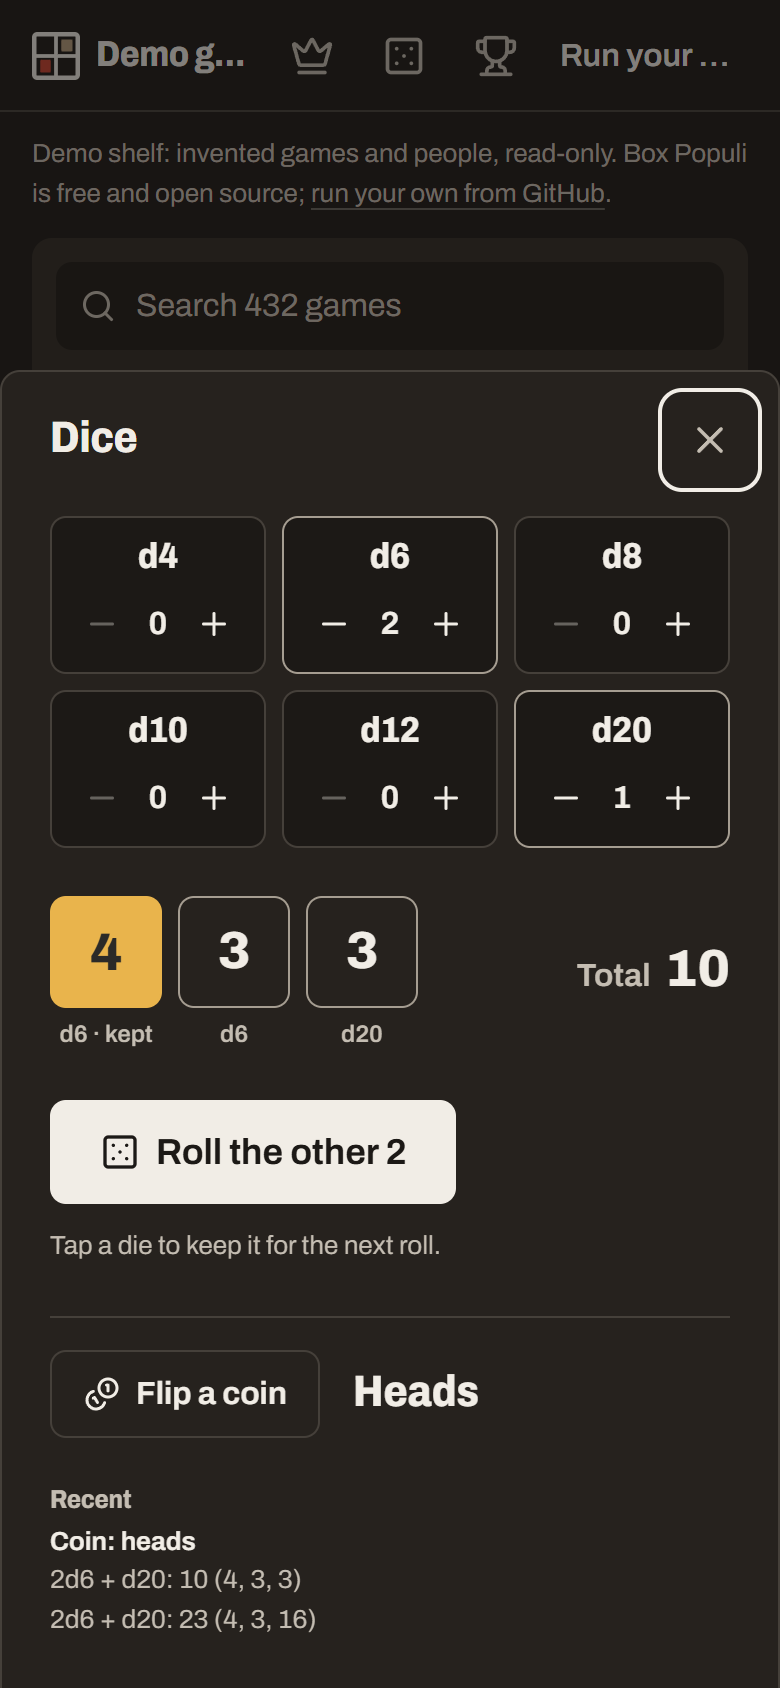
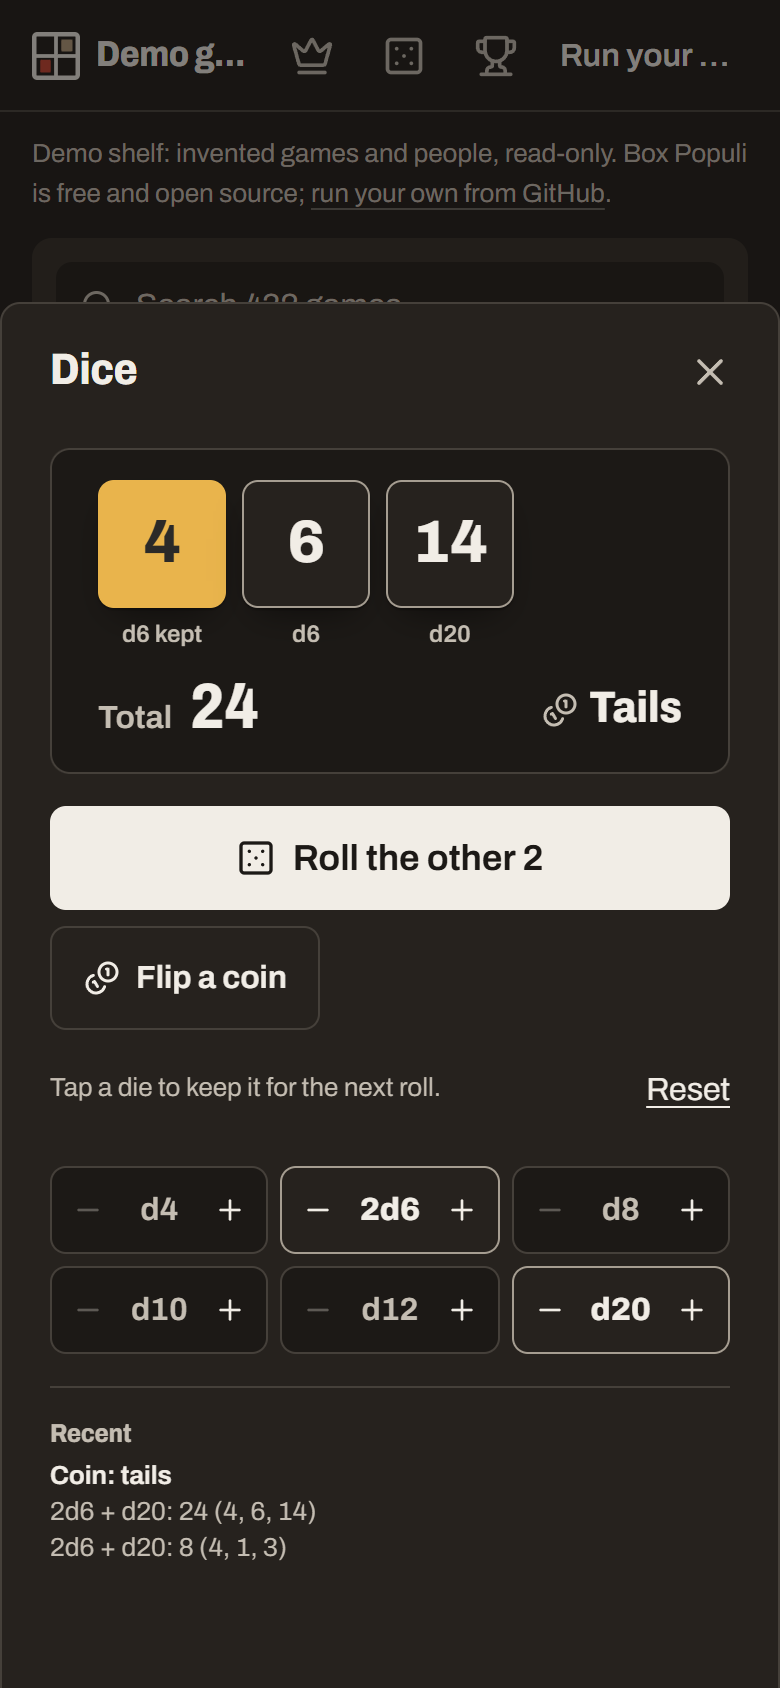
STATUS: 0.3.0 deployed, migrations 0008-0011 applied; README screenshots retaken

diff --git a/STATUS.md b/STATUS.md
@@ -1,8 +1,8 @@
 # Status
 
-Last updated 2026-11-08. Every weekend item and the Monday list are built, and 363 tests pass. Two instances run on Cloudflare Pages: the public demo at `box-populi.pages.dev` (`INSTANCE_MODE=demo`) and Carlo's private instance for his own groups, whose address stays out of this public repo. **Migrations 0001 to 0007 are applied to production (0006 and 0007 on 2026-11-07), so they're frozen: schema changes go in new migration files.**
+Last updated 2026-11-08. Every weekend item and the Monday list are built, and 374 tests pass. Two instances run on Cloudflare Pages: the public demo at `box-populi.pages.dev` (`INSTANCE_MODE=demo`) and Carlo's private instance for his own groups, whose address stays out of this public repo. Both run v0.3.0. **Migrations 0001 to 0011 are applied to production (0008 to 0011 on 2026-11-08), so they're frozen: schema changes go in new migration files.**
 
-**Next up:** deploy 0.3.0 to both instances when Carlo asks: back up both databases, apply migrations 0008 to 0011, check each instance's `GROUP_CREATION` (it now defaults to `admins`), then cut and tag the version (D44). Then: Carlo uses his instance with Wikidata until BGG approves the application. When BGG replies, answer that Box Populi is open source and self-hosted with one application per instance (TECH.md "Many instances, one piece of software"). Then the BGG token goes in (try it locally first, see TECH.md "Public-sources mode" and the unverified BGG assumptions below). With the token, consider BGG's ranks file as a local search index (TECH.md "Planned: BGG's ranks file as a local search index"; confirm the open points in its step 1 first) and the unbuilt 30-day refresh. Game nights are built (D38). Remaining stretch items: passkeys, CSV export of the catalog, PWA. The live BGG client is written and tested against a fake server, but has never talked to BGG.
+**Next up:** Carlo uses his instance with Wikidata until BGG approves the application. When BGG replies, answer that Box Populi is open source and self-hosted with one application per instance (TECH.md "Many instances, one piece of software"). Then the BGG token goes in (try it locally first, see TECH.md "Public-sources mode" and the unverified BGG assumptions below). With the token, consider BGG's ranks file as a local search index (TECH.md "Planned: BGG's ranks file as a local search index"; confirm the open points in its step 1 first) and the unbuilt 30-day refresh. Game nights are built (D38). Remaining stretch items: passkeys, CSV export of the catalog, PWA. The live BGG client is written and tested against a fake server, but has never talked to BGG.
 
 Agents: tick items as they're done, add a line to the session log at the bottom, and move assumptions to "Verified" with a date and source when you confirm them.
 
@@ -17,8 +17,8 @@ Not secret. Secrets never go in this file.
 | Cloudflare Pages projects | `box-populi`, the public demo. A second, private project serves Carlo's groups and is deliberately not named here. Both are classic Pages projects (`--force`, see SELF_HOSTING.md). |
 | Production URL | `https://box-populi.pages.dev` (demo) |
 | D1 database name and id | `box-populi`, `082d8def-1901-4a9c-bd64-5dfb85b5cf4f`, region APAC (the demo's) |
-| Production migrations | `0001_init.sql` to `0007_game_nights.sql` on both instances (0001 to 0004 on 2026-11-06, 0005 the same night, 0006 and 0007 on 2026-11-07). Applied migrations are never edited. |
-| Versions (D44) | `v0.1.0` = `32fd16b`, live on both instances since 2026-11-07. `v0.2.0` = the work of 2026-11-08, tagged locally, not deployed yet. 0.x until Carlo calls 1.0. |
+| Production migrations | `0001_init.sql` to `0011_owner_sign_in_codes.sql` on both instances (0001 to 0004 on 2026-11-06, 0005 the same night, 0006 and 0007 on 2026-11-07, 0008 to 0011 on 2026-11-08). Applied migrations are never edited. |
+| Versions (D44) | `v0.1.0` = `32fd16b`, live from 2026-11-07. `v0.2.0` = `84c49c0`, tagged, never deployed on its own. `v0.3.0` = `926fbc9`, live on both instances since 2026-11-08, with a GitHub release. All three tags are pushed. 0.x until Carlo calls 1.0. |
 | BGG application | submitted 2026-11-06, awaiting review. If declined, follow TECH.md "If BGG declines the application." |
 | BGG username for the demo seed | unknown; Carlo to supply |
 
@@ -232,3 +232,4 @@ From memory when the docs were written. Check each before relying on it, then mo
 - 2026-11-08: Your data (Carlo picked 1 and 2 of five export ideas; he asked whether nights could join the play export and whether exports need one home: they stay on their pages, and Your account gathers what's the person's). `GET /me/games.csv` (shelf and wishlist; `game, players, minutes` first so they paste into Paste a list; BGG games get name, year and id only), a Your data panel on `/me` with that and a plays link per group, and "download first" links in the account and group delete texts. CSV helpers moved to `src/lib/csv.ts`, shared with the plays export. Privacy page section renamed "Taking and deleting your data". Checked with curl (21 games for sandbox Ada, 401 signed out) and in headless Chrome at 1280 and 390 dark (the sandbox archived for the delete screenshot, then restored). Open: nights as a second file on the Plays page export, suggested to Carlo. Not committed.
 - 2026-11-08: Delete for good and the admin's group Manage, after an /impeccable critique (27/40; dual review, snapshots in `.impeccable/critique/`). Carlo picked all five fixes, suspend-before-delete for the host (D53) and telling the owner. `/admin`: Manage rebuilt as rows (Access, Owner's way in, a danger foot) with one well at a time, "Message to members" vs "Reason" fields, errors beside their fields, status lines after each action, the delete warning with play and night counts (`listGroups` counts), `adminDeleteGroup` refusing an unsuspended group, the owner code with Copy and a clock time. Owner: delete summary in the danger colour, "Nobody is told…", a plays download button, the button waiting for the typed name, Cancel, `/me?deleted=` status. The suspended panel says only the host can lift it; the archived banner no longer tells co-admins they can delete; the door says "use a sign-in code". Two bugs found while checking and fixed: the admin row folded shut on every action (open state now kept in `openGroup`), and the reopen-after-error effect closed wells opened by hand (now `untrack`ed). Checked in headless Chrome at 1280 and 390 dark with a real suspend, code, unsuspend (log rows and code removed after) and a real owner delete of a throwaway group. Not committed.
 - 2026-11-08: Game nights export, and "suspend it first" as a link (Carlo: "go" on both suggestions). `export.csv?what=nights` serves `nightsCsv` (`src/lib/nights-csv.ts`): one row per person per night and one more per further game they brought, with answer, host, start, game source and BGG id, stayed home, night id; `nightGameInfo` names bring-list games with the group's corrections in one query. The Plays page's Export row has Plays | Game nights; Your data links Plays and Nights per group; the owner's delete fold offers both downloads. On `/admin`, "suspend it first" opens the Suspend well. Checked with curl (the sandbox's nights file, 88 rows) and in headless Chrome at 1280 and 390 dark; a `.what` class clash with the plays timeline caught and renamed. Not committed.
+- 2026-11-08: Released and deployed 0.3.0 (`926fbc9`, tag `v0.3.0`, GitHub release with the changelog section). Before it: the landing's "Also in the box" gained Your data and its hosting facts the new admin powers; the README mentions PINs, Your data and the group switcher. In each instance clone: pull, install, back up the database (`backups/<name>-before-0008-0011-2026-11-08.sql`), apply migrations 0008 to 0011 remotely, `pnpm run deploy`; the demo reseeded. Both clones already set `GROUP_CREATION=admins`, so the new default changed nothing. Both serve v0.3.0. Pushed `main` with tags v0.1.0 to v0.3.0 (none had been pushed). README screenshots retaken from the live demo (all nine; two alt texts updated for the podium and the night page).

diff --git a/README.md b/README.md
@@ -26,9 +26,9 @@ A shared shelf for your board game group. Everyone adds the games they own, and 
 
 ![The Game night tab: the next planned night at the top, then Play tonight with Ada, Bram and Chen ticked as here, three games suggested from what they own, and quick fillers below](docs/screenshots/picker-desktop.png)
 
-![A planned game night at a café: who's going, a guest, and who's bringing which games](docs/screenshots/game-night-desktop.png)
+![A planned game night at a café: who's going, a guest, and the start of the list of who's bringing which games](docs/screenshots/game-night-desktop.png)
 
-![The demo group's leaderboard: members ranked by podium points, with their wins and plays, and the latest plays listed below](docs/screenshots/plays-desktop.png)
+![The demo group's leaderboard: the top three on a podium with their points, wins and plays, the rest in a table below, then the start of the plays timeline](docs/screenshots/plays-desktop.png)
 
 | | |
 |---|---|
